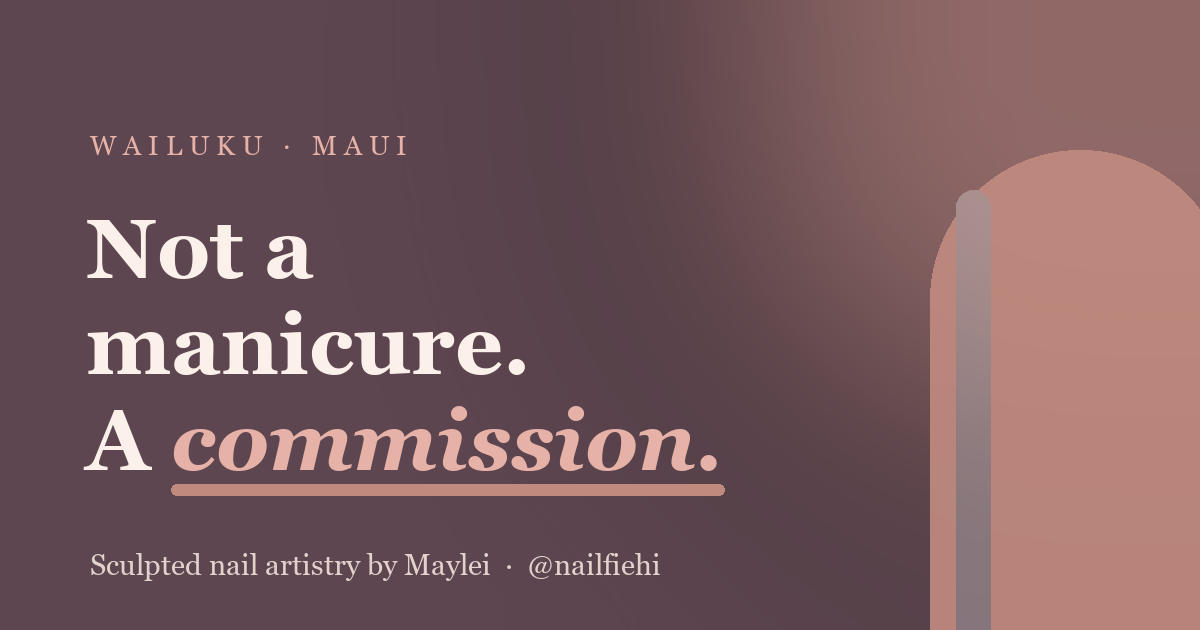
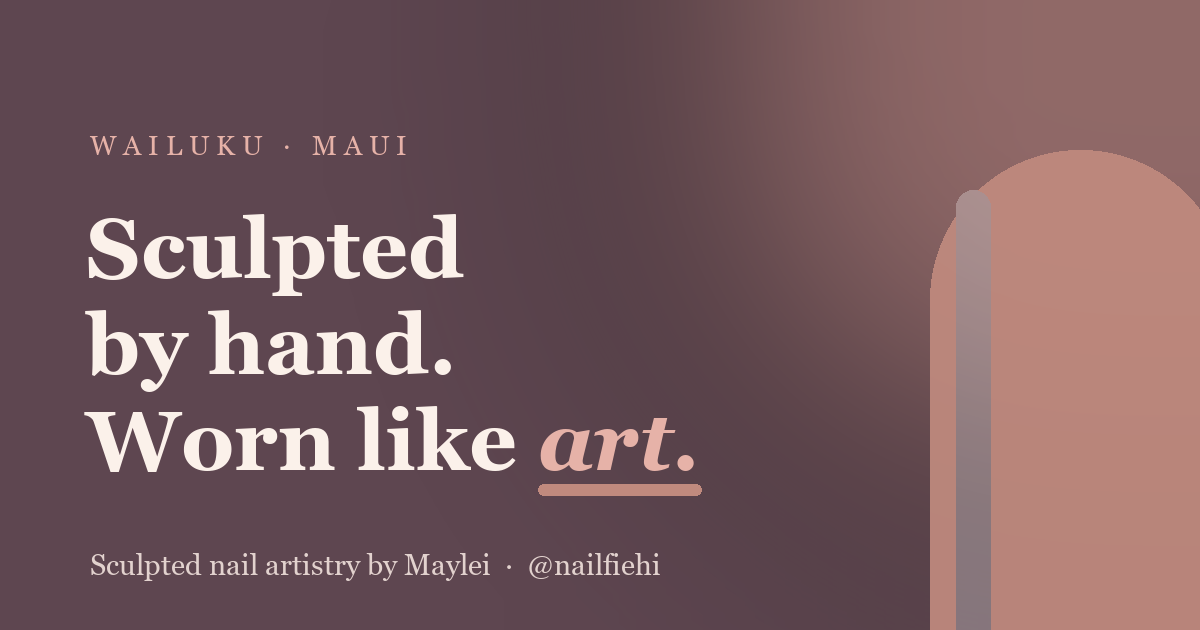
Hero headline: Sculpted by hand. Worn like art.
Replaces the muddy A-commission pun with a clear, on-brand line.
- the word art set in rose italic accent; tidied subhead (dropped echo)
- widened hero text column + trimmed H1 max size so line 1 stays on one line
  (no awkward 3-line wrap) at desktop and mobile
- regenerated OG cover to match (build_og.py)

Changed region(s): [[0.0617, 0.3317, 0.6167, 0.8143]]

diff --git a/index.html b/index.html
@@ -162,9 +162,9 @@
 
   /* ============ HERO ============ */
   .hero { background: linear-gradient(180deg, var(--bg) 0%, var(--surface) 100%); padding-top: clamp(36px, 6vw, 72px); overflow: hidden; }
-  .hero-grid { display: grid; grid-template-columns: 1.02fr 1fr; gap: clamp(28px, 5vw, 60px); align-items: center; padding-bottom: clamp(40px, 6vw, 80px); }
+  .hero-grid { display: grid; grid-template-columns: 1.15fr .9fr; gap: clamp(28px, 5vw, 60px); align-items: center; padding-bottom: clamp(40px, 6vw, 80px); }
   .hero .eyebrow { margin-bottom: 6px; }
-  .hero h1 { font-size: clamp(2.9rem, 7vw, 5.3rem); font-weight: 600; }
+  .hero h1 { font-size: clamp(2.7rem, 6.2vw, 5rem); font-weight: 600; }
   .hero h1 em { font-style: italic; color: var(--rose-deep); }
   .hero .lede { font-size: clamp(1.04rem, 1.5vw, 1.2rem); max-width: 44ch; margin-top: 22px; color: var(--text); }
   .hero .cta-row { display: flex; flex-wrap: wrap; gap: 14px; margin-top: 32px; }
@@ -359,8 +359,8 @@
   <div class="wrap hero-grid">
     <div class="hero-copy">
       <span class="eyebrow reveal">Sculpted nail artistry</span>
-      <h1 id="hero-h1" class="reveal d1">Not a manicure. <br>A <em>commission</em>.</h1>
-      <p class="lede reveal d2">Hand-sculpted acrylic, hard gel &amp; Apres Gel-X — one licensed artist, one chair, in downtown Wailuku. Your nails, treated like art.</p>
+      <h1 id="hero-h1" class="reveal d1">Sculpted by hand. <br>Worn like <em>art</em>.</h1>
+      <p class="lede reveal d2">Hand-sculpted acrylic, hard gel &amp; Apres Gel-X — one licensed artist, one chair, in downtown Wailuku.</p>
       <div class="cta-row reveal d2">
         <a href="https://square.site/book/VBDAN65JPDBDH/nailfie-studio-hi-llc-wailuku-hi" class="btn btn-primary" target="_blank" rel="noopener">Book on Square <span class="arr">→</span></a>
         <a href="#work" class="btn btn-ghost">See the work</a>

diff --git a/build_og.py b/build_og.py
@@ -55,16 +55,16 @@ draw.text((90, 130), "W A I L U K U   ·   M A U I", font=eb, fill=LROSE)
 # headline (serif)
 f_disp = font(DISPLAY, 84)
 f_ital = font(ITALIC, 84)
-draw.text((86, 200), "Not a", font=f_disp, fill=CREAM)
-draw.text((86, 296), "manicure.", font=f_disp, fill=CREAM)
+draw.text((86, 200), "Sculpted", font=f_disp, fill=CREAM)
+draw.text((86, 296), "by hand.", font=f_disp, fill=CREAM)
 y2 = 392
 x = 86
-draw.text((x, y2), "A ", font=f_disp, fill=CREAM)
-xw = draw.textlength("A ", font=f_disp)
-draw.text((x + xw, y2), "commission.", font=f_ital, fill=LROSE)
-# rose-gold brushstroke under "commission."
+draw.text((x, y2), "Worn like ", font=f_disp, fill=CREAM)
+xw = draw.textlength("Worn like ", font=f_disp)
+draw.text((x + xw, y2), "art.", font=f_ital, fill=LROSE)
+# rose-gold brushstroke under "art."
 uy = y2 + 92
-draw.rounded_rectangle([x + xw, uy, x + xw + draw.textlength("commission.", font=f_ital), uy + 11], radius=6, fill=ROSE)
+draw.rounded_rectangle([x + xw, uy, x + xw + draw.textlength("art.", font=f_ital), uy + 11], radius=6, fill=ROSE)
 
 # sub line
 f_sub = font(BODY, 29)